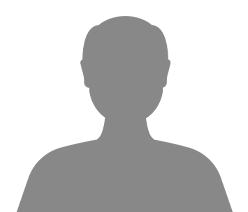
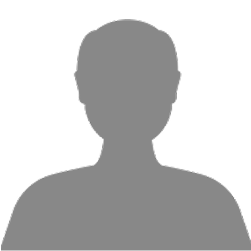
Frontend Routing Dynamic Done

diff --git a/src/app/modules/website/website-routing.module.ts b/src/app/modules/website/website-routing.module.ts
@@ -40,17 +40,10 @@ const routes: Routes = [
       { path: 'home', component: IndexComponent },
       { path: 'confirm-password', component: ConfirmPasswordComponent },
       { path: 'footer', component: FooterComponent },
-      { path: 'club', component: ClubComponent },
       { path: 'feature', component: FeatureComponent },
       { path: 'news', component: NewsComponent },
-
       { path: 'ca', component: CaComponent },
-
-
       { path: 'cookie', component: CookieComponent },
-
-
-      { path: 'talent', component: TalentComponent },
       { path: 'learn-more', component: LearnMoreComponent },
       { path: 'news/:slug', component: DetailPagesComponent },
       { path: 'player-list', component: PlayerListComponent },
@@ -62,23 +55,88 @@ const routes: Routes = [
       { path: 'password-reset-link', component: PasswordResetLinkComponent },
       { path: 'email-verify', component: EmailVerifyComponent },
 
-      // For England
-      { path: 'about', component: AboutComponent },
-      { path: 'contact', component: ContactComponent },
+      // For England .co.uk
+      { path: 'talents', component: TalentComponent },
+      { path: 'clubs-scouts', component: ClubComponent },
+      { path: 'about-us', component: AboutComponent },
       { path: 'pricing', component: PricingComponent },
       { path: 'faq', component: FaqComponent },
-      { path: 'terms', component: TermsComponent },
       { path: 'imprint', component: ImprintComponent },
       { path: 'privacy', component: PrivacyComponent },
-      // For Germen
-      { path: 'uber-uns', component: AboutComponent },
-      { path: 'kontakt', component: ContactComponent },
+      { path: 'terms-conditions', component: TermsComponent },
+      { path: 'contact', component: ContactComponent },
+      // For Switzerland .ch && For Germen .de
+      { path: 'talente', component: TalentComponent },
+      { path: 'clubs-scouts', component: ClubComponent },
+      { path: 'ueber-uns', component: AboutComponent },
       { path: 'preise', component: PricingComponent },
-      { path: 'hilfebereich', component: FaqComponent },
-      { path: 'agb', component: TermsComponent },
       { path: 'impressum', component: ImprintComponent },
       { path: 'datenschutz', component: PrivacyComponent },
-
+      { path: 'agb', component: TermsComponent },
+      { path: 'kontakt', component: ContactComponent },
+      // For France .fr 
+      { path: 'talents', component: TalentComponent },
+      { path: 'clubs-scouts', component: ClubComponent },
+      { path: 'a-propos', component: AboutComponent },
+      { path: 'tarifs', component: PricingComponent },
+      { path: 'mentions-legales', component: ImprintComponent },
+      { path: 'politique-de-confidentialite', component: PrivacyComponent },
+      { path: 'conditions-generales', component: TermsComponent },
+      { path: 'contact', component: ContactComponent },
+      // For SPain .es
+      { path: 'talentos', component: TalentComponent },
+      { path: 'clubes-scouts', component: ClubComponent },
+      { path: 'acerca-de', component: AboutComponent },
+      { path: 'precios', component: PricingComponent },
+      { path: 'aviso-legal', component: ImprintComponent },
+      { path: 'politica-de-privacidad', component: PrivacyComponent },
+      { path: 'terminos-condiciones', component: TermsComponent },
+      { path: 'contacto', component: ContactComponent },
+      //  For Portgal .pt
+      { path: 'talentos', component: TalentComponent },
+      { path: 'clubes-olheiros', component: ClubComponent },
+      { path: 'sobre', component: AboutComponent },
+      { path: 'preceos', component: PricingComponent },
+      { path: 'impressum', component: ImprintComponent },
+      { path: 'política-de-privacidade', component: PrivacyComponent },
+      { path: 'termos-e-condicoees', component: TermsComponent },
+      { path: 'contato', component: ContactComponent },
+      // For Sweden .se 
+      { path: 'talenter', component: TalentComponent },
+      { path: 'clubber-spejdere', component: ClubComponent },
+      { path: 'om', component: AboutComponent },
+      { path: 'priser', component: PricingComponent },
+      { path: 'impressum', component: ImprintComponent },
+      { path: 'privatlivspolitik', component: PrivacyComponent },
+      { path: 'vilkaer-og-betingelser', component: TermsComponent },
+      { path: 'kontakt', component: ContactComponent },
+      // For Denmark .dk domain
+      { path: 'talanger', component: TalentComponent },
+      { path: 'klubbar-scouter', component: ClubComponent },
+      { path: 'om', component: AboutComponent },
+      { path: 'prissaettning', component: PricingComponent },
+      { path: 'impressum', component: ImprintComponent },
+      { path: 'integritetspolicy', component: PrivacyComponent },
+      { path: 'allmaenna-villkor', component: TermsComponent },
+      { path: 'kontakt', component: ContactComponent },
+      // For Belgium .be
+      { path: 'talents', component: TalentComponent },
+      { path: 'clubs-scouts', component: ClubComponent },
+      { path: 'a-propos', component: AboutComponent },
+      { path: 'tarifs', component: PricingComponent },
+      { path: 'mentions-legales', component: ImprintComponent },
+      { path: 'politique-de-confidentialite', component: PrivacyComponent },
+      { path: 'conditions-generales', component: TermsComponent },
+      { path: 'contact', component: ContactComponent },
+      // For Italy .it
+      { path: 'talenti', component: TalentComponent },
+      { path: 'clubs-scouts', component: ClubComponent },
+      { path: 'informazioni-su', component: AboutComponent },
+      { path: 'prezzi', component: PricingComponent },
+      { path: 'impronta', component: ImprintComponent },
+      { path: 'politica-sulla-privacy', component: PrivacyComponent },
+      { path: 'termini-condizioni', component: TermsComponent },
+      { path: 'contatto', component: ContactComponent },
     ]
   },
   { path: 'success', component: SuccessComponent },

diff --git a/src/app/modules/website/header/header.component.html b/src/app/modules/website/header/header.component.html
@@ -61,11 +61,11 @@
 
             <ul class="navbar-nav me-auto mb-2 mb-lg-0">
                 <li class="nav-item">
-                    <a class="nav-link" aria-current="page" [routerLink]="'/talent'" routerLinkActive="active">{{
+                    <a class="nav-link" aria-current="page" [routerLink]="['/' + domainSlugService.getRouteSlug('talent')]" routerLinkActive="active">{{
                         'talents' | translate }}</a>
                 </li>
                 <li class="nav-item">
-                    <a class="nav-link" [routerLink]="'/club'" routerLinkActive="active">{{ 'club&scout' | translate
+                    <a class="nav-link" [routerLink]="['/' + domainSlugService.getRouteSlug('clubAndScout')]" routerLinkActive="active">{{ 'club&scout' | translate
                         }}</a>
                 </li>
                 <li class="nav-item">
@@ -98,10 +98,10 @@
                         <!-- HTML -->
                         <ul class="sidebar-nav">
                             <li class="nav-item">
-                                <a class="nav-link" [routerLink]="'/talent'" (click)="closeNavbar()" routerLinkActive="active">{{ 'talent' | translate }}</a>
+                                <a class="nav-link" [routerLink]="['/' + domainSlugService.getRouteSlug('talent')]" (click)="closeNavbar()" routerLinkActive="active">{{ 'talent' | translate }}</a>
                             </li>
                             <li class="nav-item">
-                                <a class="nav-link" [routerLink]="'/club'" (click)="closeNavbar()" routerLinkActive="active">{{ 'club&scout' | translate }}</a>
+                                <a class="nav-link" [routerLink]="['/' + domainSlugService.getRouteSlug('clubAndScout')]" (click)="closeNavbar()" routerLinkActive="active">{{ 'club&scout' | translate }}</a>
                             </li>
                             <li class="nav-item">
                                 <!-- <a class="nav-link" [routerLink]="'/about'" (click)="closeNavbar()" routerLinkActive="active">{{ 'about' | translate }}</a> -->
@@ -111,7 +111,7 @@
                                 <a class="nav-link" [routerLink]="'/news'" (click)="closeNavbar()" routerLinkActive="active">{{ 'news' | translate }}</a>
                             </li>
                             <li class="nav-item">
-                                <a class="nav-link" [routerLink]="'/contact'" (click)="closeNavbar()" routerLinkActive="active">{{ 'contact' | translate }}</a>
+                                <a class="nav-link" [routerLink]="['/' + domainSlugService.getRouteSlug('contact')]" (click)="closeNavbar()" routerLinkActive="active">{{ 'contact' | translate }}</a>
                             </li>
                         </ul>
 
@@ -132,7 +132,7 @@
 
                     <div class=" footer-links">
                         <ul class="footer-links1">
-                            <li><a (click)="closeNavbar()" [routerLink]="'/pricing'">{{ 'pricingLabel' | translate }} </a></li>
+                            <li><a (click)="closeNavbar()" [routerLink]="['/' + domainSlugService.getRouteSlug('pricing')]">{{ 'pricingLabel' | translate }} </a></li>
                             <li><a (click)="closeNavbar()" href="javascript:void(0);" data-bs-toggle="modal" data-bs-target="#exampleModal-login">{{ 'signIn' | translate }}</a></li>
                             <li><a (click)="closeNavbar()" data-bs-toggle="modal" data-bs-target="#exampleModal1">{{ 'createAccount' | translate }}</a>
                             <li><a (click)="closeNavbar()" [routerLink]="'/faq'">{{ 'faq' | translate }}</a></li>

diff --git a/src/app/services/domain-slug.service.ts b/src/app/services/domain-slug.service.ts
@@ -5,9 +5,117 @@ import { Injectable } from '@angular/core';
 })
 export class DomainSlugService {
   private domainSlugMap: Record<string, Record<string, string>> = {
-    'co.uk': { about: 'about', contact: 'contact', pricing: 'pricing', faq: 'faq', terms: 'terms', imprint: 'imprint', privacy: 'privacy' },
-    'ch': { about: 'uber-uns', contact: 'kontakt', pricing: 'preise', faq: 'hilfebereich', terms: 'agb', imprint: 'impressum', privacy: 'datenschutz' },
-    // Add more domains and routes here
+    'co.uk': {
+      talent: 'talents',
+      clubAndScout: 'clubs-scouts',
+      about: 'about-us',
+      pricing: 'pricing',
+      faq: 'faq',
+      imprint: 'imprint',
+      privacy: 'privacy',
+      terms: 'terms-conditions',
+      contact: 'contact',
+    },
+    'ch': {
+      talent: 'talente',
+      clubAndScout: 'clubs-scouts',
+      about: 'ueber-uns',
+      pricing: 'preise',
+      faq: 'faq',
+      imprint: 'impressum',
+      privacy: 'datenschutz',
+      terms: 'agb',
+      contact: 'kontakt',
+    },
+    'de': {
+      talent: 'talente',
+      clubAndScout: 'clubs-scouts',
+      about: 'ueber-uns',
+      pricing: 'preise',
+      faq: 'faq',
+      imprint: 'impressum',
+      privacy: 'datenschutz',
+      terms: 'agb',
+      contact: 'kontakt',
+    },
+    'fr': {
+      talent: 'talents',
+      clubAndScout: 'clubs-scouts',
+      about: 'a-propos',
+      pricing: 'tarifs',
+      faq: 'faq',
+      imprint: 'mentions-legales',
+      privacy: 'politique-de-confidentialite',
+      terms: 'conditions-generales',
+      contact: 'contact',
+    },
+    'es': {
+      talent: 'talentos',
+      clubAndScout: 'clubes-scouts',
+      about: 'acerca-de',
+      pricing: 'precios',
+      faq: 'faq',
+      imprint: 'aviso-legal',
+      privacy: 'politica-de-privacidad',
+      terms: 'terminos-condiciones',
+      contact: 'contacto',
+    },
+    'pt': {
+      talent: 'talentos',
+      clubAndScout: 'clubes-olheiros',
+      about: 'sobre',
+      pricing: 'preceos',
+      faq: 'faq',
+      imprint: 'impressum',
+      privacy: 'política-de-privacidade',
+      terms: 'termos-e-condicoees',
+      contact: 'contato',
+    },
+    'se': {
+      talent: 'talenter',
+      clubAndScout: 'clubber-spejdere',
+      about: 'om',
+      pricing: 'priser',
+      faq: 'faq',
+      imprint: 'impressum',
+      privacy: 'privatlivspolitik',
+      terms: 'vilkaer-og-betingelser',
+      contact: 'kontakt',
+    },
+    'dk': {
+      talent: 'talanger',
+      clubAndScout: 'klubbar-scouter',
+      about: 'om',
+      pricing: 'prissaettning',
+      faq: 'faq',
+      imprint: 'impressum',
+      privacy: 'integritetspolicy',
+      terms: 'allmaenna-villkor',
+      contact: 'kontakt',
+    },
+    'be': {
+      talent: 'talents',
+      clubAndScout: 'clubs-scouts',
+      about: 'a-propos',
+      pricing: 'tarifs',
+      faq: 'faq',
+      imprint: 'mentions-legales',
+      privacy: 'politique-de-confidentialite',
+      terms: 'conditions-generales',
+      contact: 'contact',
+    },
+    'it': {
+      talent: 'talenti',
+      clubAndScout: 'clubs-scouts',
+      about: 'informazioni-su',
+      pricing: 'prezzi',
+      faq: 'faq',
+      imprint: 'impronta',
+      privacy: 'politica-sulla-privacy',
+      terms: 'termini-condizioni',
+      contact: 'contatto',
+    },
+    
   };
 
   private currentDomain: string;

diff --git a/src/app/modules/shared/explore/explore.component.html b/src/app/modules/shared/explore/explore.component.html
@@ -8,16 +8,14 @@
           <table class="table table-striped explore-table" [ngClass]="{'d-none': isHideFilter}">
             <thead>
               <tr class="explore-inputs">
-                <!-- Talent Filter -->
-                <!-- <pre>{{roles | json}}</pre> -->
                 <th [ngClass]="{'onlyScout':selectedRole == 2}">
                   <div class="form-group explore-all_input"
                     [ngClass]="{'onlyScout':selectedRole == 3 || selectedRole == 2 || !selectedRole}">
                     <mat-form-field appearance="fill">
-                      <mat-label>{{ 'talents' | translate }}</mat-label>
+                      <mat-label>{{ 'selectHere' | translate }}</mat-label>
+                    
                       <mat-select #roleSelect [(ngModel)]="selectedRole" (selectionChange)="onRoleChange(roleSelect)"
                         id="roles" name="role">
-                        <!-- <mat-option [value]="null" [selected]="!selectedRole">{{'all' | translate}}</mat-option> -->
                         <mat-option *ngFor="let role of roles" [value]="role.id">{{role.role_name}}</mat-option>
                       </mat-select>
                     </mat-form-field>
@@ -83,17 +81,14 @@
                 </th>
                 <!-- Country Filter -->
                 <th *ngIf="selectedRole == 4 || selectedRole == 2" [ngClass]="{'d-none':!selectedRole}">
-                  <div class="form-group explore-all_input" [ngClass]="{'onlyScout':selectedRole == 2}">
+                  <div class="form-group explore-all_input" [ngClass]="{'onlyScout':selectedRole == 2 && !selectedCountry}">
                     <mat-form-field appearance="fill">
                       <mat-label>{{ 'club' | translate }} {{ 'country' | translate }}</mat-label>
-                      <!-- <mat-label>{{ 'country' | translate }}</mat-label> -->
-                      <!-- <pre>{{countries | json}}</pre> -->
                       <mat-select #countryChange [(ngModel)]="selectedCountry"
                         (selectionChange)="onCountryChange(countryChange); countryAndLeauge('country');" id="country"
                         name="country">
                         <mat-option *ngFor="let country of countries" [value]="country.country_id">
                           {{country.location}}
-                          <!-- {{country.country_name}} -->
                         </mat-option>
                       </mat-select>
                     </mat-form-field>

diff --git a/src/app/modules/website/footer/footer.component.html b/src/app/modules/website/footer/footer.component.html
@@ -56,8 +56,8 @@
         <div class="col-lg-3 col-md-4  col-12 footer-links">
           <h4>{{ 'about' | translate }}</h4>
           <ul>
-            <li><a (click)="navigateAndScroll('talent')">{{ 'talents' | translate }}</a></li>
-            <li><a (click)="navigateAndScroll('club')">{{ 'club&scout' | translate }}</a></li>
+            <li><a [routerLink]="['/' + domainSlugService.getRouteSlug('talent')]">{{ 'talents' | translate }}</a></li>
+            <li><a [routerLink]="['/' + domainSlugService.getRouteSlug('clubAndScout')]">{{ 'club&scout' | translate }}</a></li>
             <!-- <li><a (click)="navigateAndScroll('about')">{{ 'about' | translate }}</a></li> -->
             <li><a [routerLink]="['/' + domainSlugService.getRouteSlug('about')]">{{ 'about' | translate }}</a></li>
             <li><a (click)="navigateAndScroll('news')">{{ 'news&Media' | translate }}</a></li>

diff --git a/src/app/modules/club/tabs/add-new-talent/add-new-talent.component.html b/src/app/modules/club/tabs/add-new-talent/add-new-talent.component.html
@@ -78,7 +78,7 @@
               <div class="date-input col-lg-4 p-0 mb-3 mb-lg-0">
                 <label for="endDate" class="d-block font-weight-bold">
                 </label>
-                <input type="date" class="form-control join-end" id="endDate" [ngClass]="{'red-border-end': !endDate && submitClicked}" [(ngModel)]="endDate"
+                <input type="date" class="form-control join-end" id="endDate" [ngClass]="{'red-border-end': !endDate && submitClicked && !noEndDate}" [(ngModel)]="endDate"
                   [disabled]="noEndDate" placeholder="{{ 'selectEndDate' | translate }}" />
               </div>
 

diff --git a/src/app/modules/talent/plan/plan.component.html b/src/app/modules/talent/plan/plan.component.html
@@ -5,7 +5,8 @@
     <div *ngIf="isLoadingPlans" class="loader-container py-5">
       <!-- <div class="loader"></div> -->
       <!-- <div *ngIf="loading && photoLoading" class="loader-container py-5"> -->
-        <app-talent-loader [width]="'80px'" [height]="'80px'" [border]="'5px'"></app-talent-loader>
+        <!-- <app-talent-loader></app-talent-loader> -->
+        <app-talent-loader [width]="'80px'" [height]="'80px'" [border]="'8px'"></app-talent-loader>
       <!-- </div> -->
       <!-- <p>{{'loading' | translate}}</p> -->
     </div>

diff --git a/src/app/modules/shared/countries/countries.component.html b/src/app/modules/shared/countries/countries.component.html
@@ -36,7 +36,7 @@
                                     </svg>
                                     <span>{{'purchased' | translate}}</span>
                                 </div>
-                                <a href="/talent/explore">{{'startExploring' | translate}}</a>
+                                <!-- <a href="/talent/explore">{{'startExploring' | translate}}</a> -->
                             </div>
                         </div>
                         <div class="country-info">

diff --git a/src/app/modules/club/tabs/add-new-talent/add-new-talent.component.ts b/src/app/modules/club/tabs/add-new-talent/add-new-talent.component.ts
@@ -110,6 +110,14 @@ export class AddNewTalentComponent implements OnInit {
       i += 1;
     });
 
+    if (!this.startDate) {
+      return;
+    }
+
+    if (!this.noEndDate && !this.endDate) {
+      return;
+    }
+
     if (this.edit) {
       this.updatePlayer(formData);
     } else {
